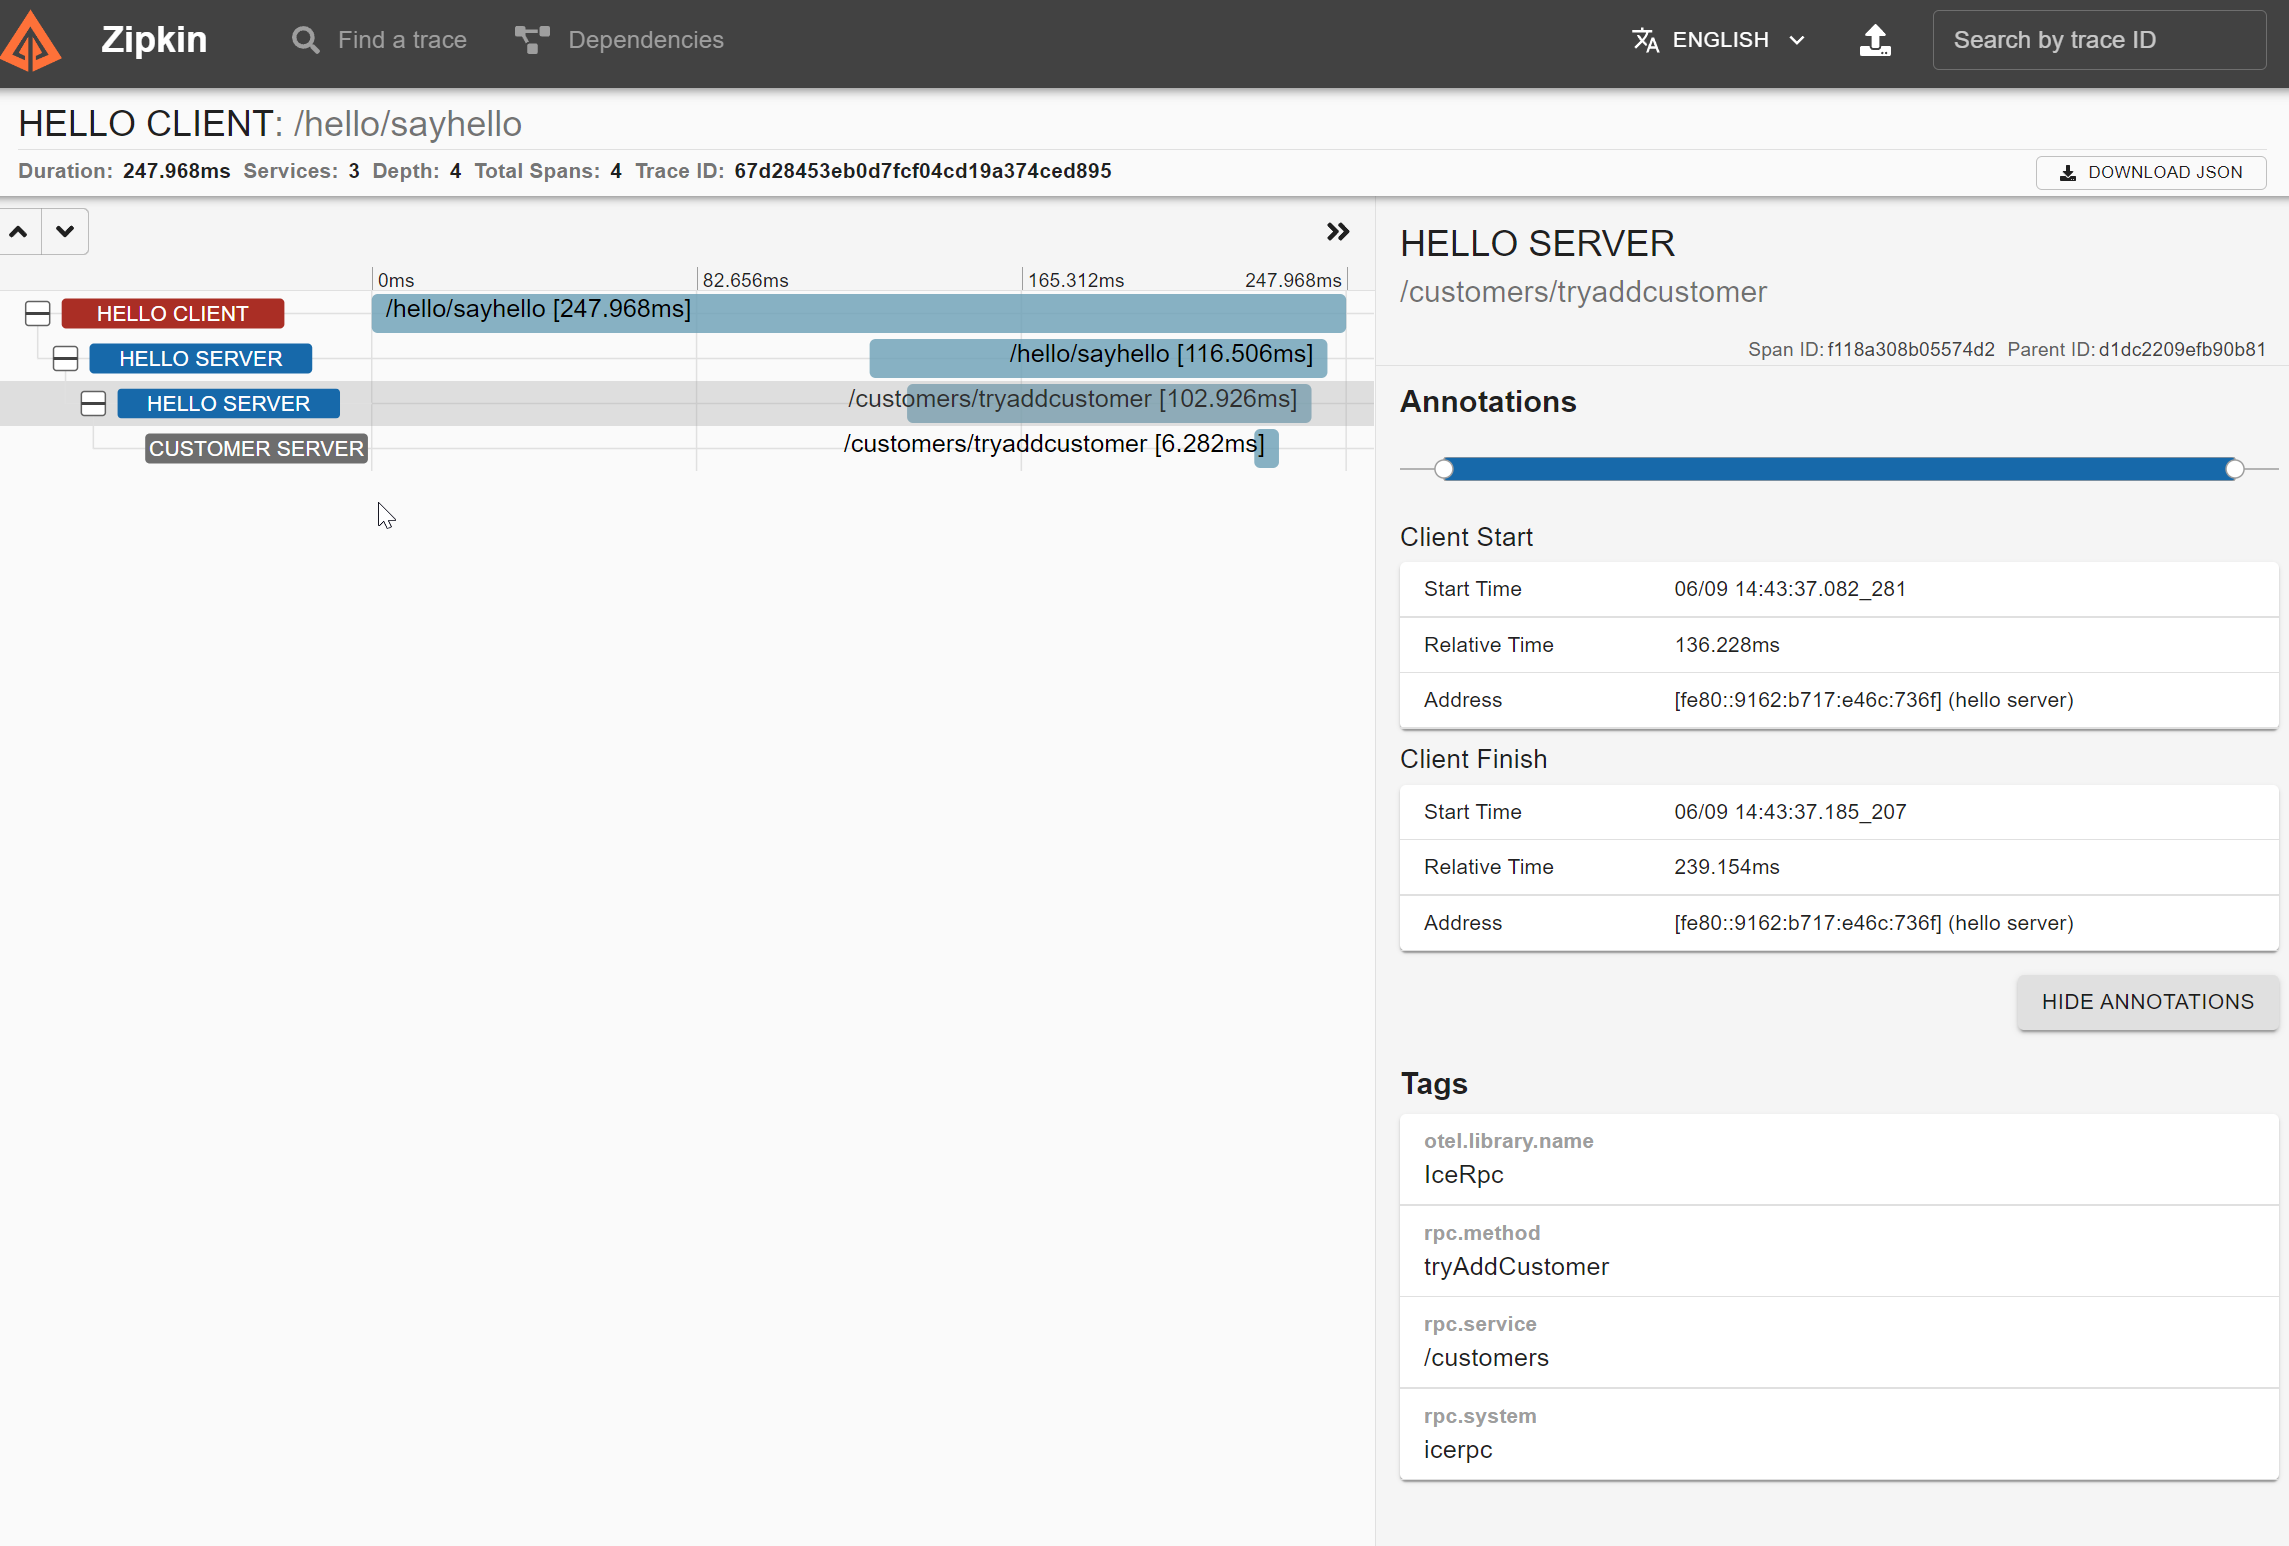
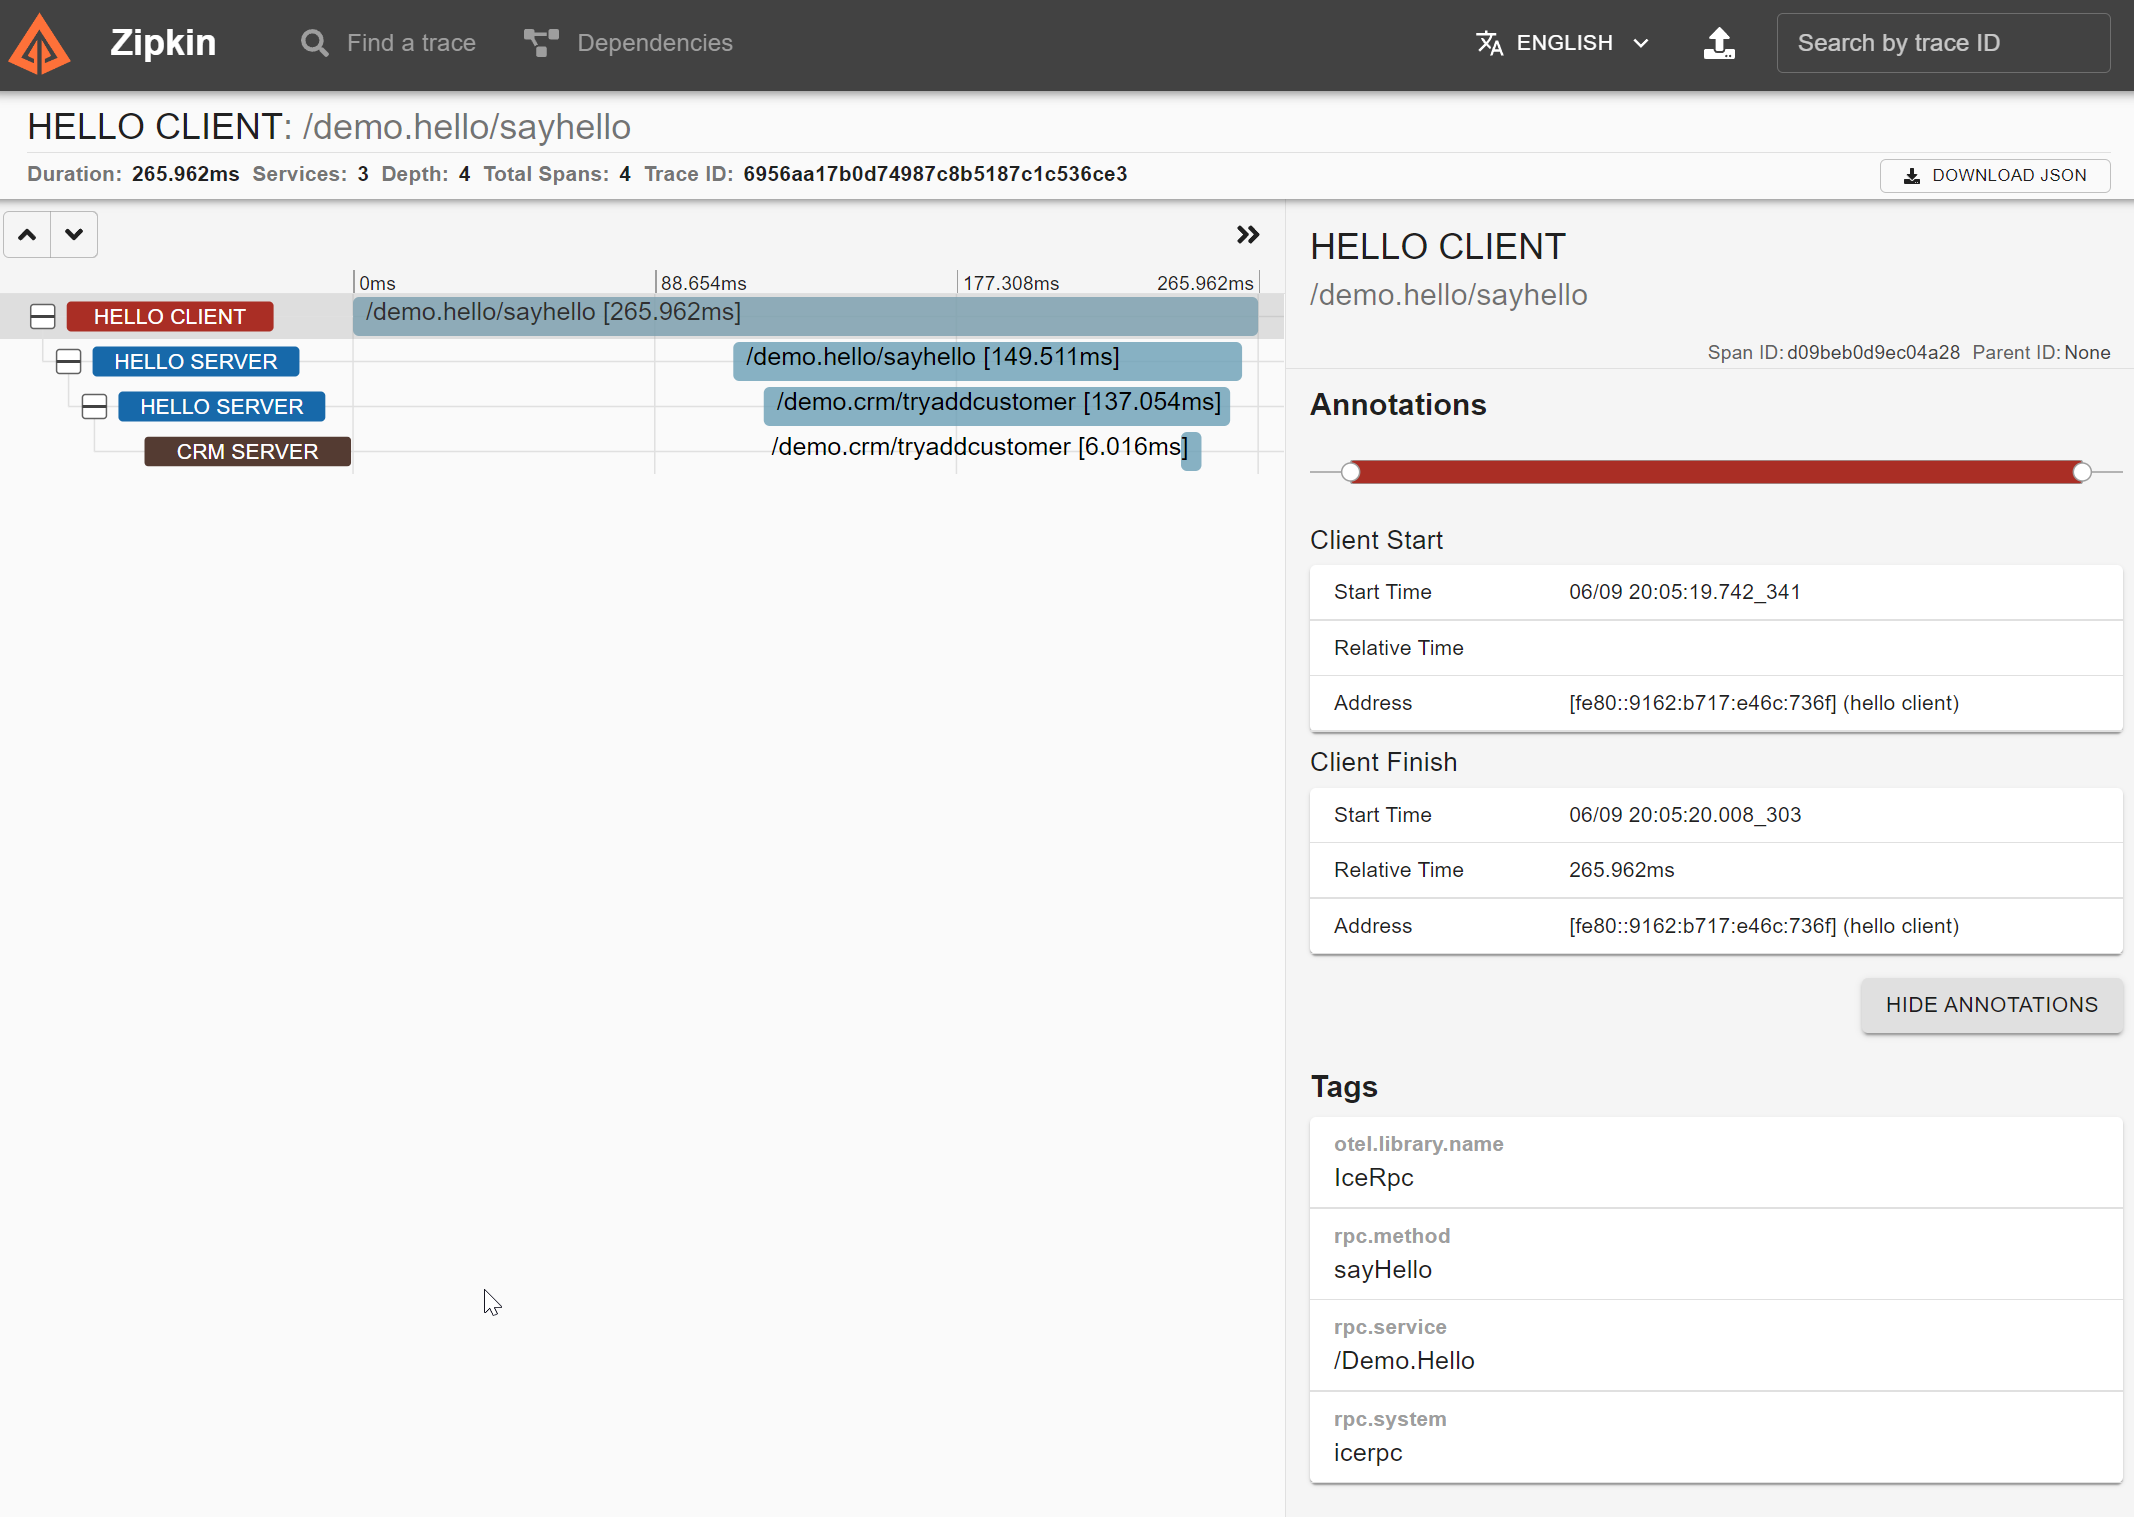
Fix review comments

Changed region(s): [[0.0, 0.0, 1.0, 0.6816], [0.6186, 0.6816, 0.7113, 0.9914], [0.7732, 0.2169, 0.9897, 0.2479]]

diff --git a/examples/OpenTelemetry/HelloServer/Program.cs b/examples/OpenTelemetry/HelloServer/Program.cs
@@ -7,12 +7,13 @@ using OpenTelemetry.Resources;
 using OpenTelemetry.Trace;
 using System.Diagnostics;
 
+// The activity source used by the telemetry interceptor and middleware.
 using var activitySource = new ActivitySource("IceRpc");
 
-// Create an invocation pipeline that uses the telemetry interceptor.
+// Create an invocation pipeline and add the telemetry interceptor to it.
 var pipeline = new Pipeline().UseTelemetry(activitySource);
 
-// Create an dispatch pipeline that uses the telemetry middleware.
+// Create a dispatch pipeline and add the telemetry middleware to it.
 var router = new Router().UseTelemetry(activitySource);
 
 // Configure OpenTelemetry trace provider to subscribe to the activity source used by the IceRpc telemetry interceptor
@@ -24,13 +25,12 @@ using var tracerProvider = Sdk.CreateTracerProviderBuilder()
    .Build();
 
 await using var connection = new ClientConnection("icerpc://127.0.0.1:20001");
-ICustomerListPrx customerList = CustomerListPrx.FromConnection(connection, "/customers", pipeline);
 
-router.Map("/hello", new Hello(customerList));
+router.Map<IHello>(new Hello(CRMPrx.FromConnection(connection, invoker: pipeline)));
 
 await using var server = new Server(router);
 
-// Destroy the server on Ctrl+C or Ctrl+Break
+// Shuts down the server on Ctrl+C or Ctrl+Break
 Console.CancelKeyPress += (sender, eventArgs) =>
 {
     eventArgs.Cancel = true;

diff --git a/examples/OpenTelemetry/CRMServer/Program.cs b/examples/OpenTelemetry/CRMServer/Program.cs
@@ -7,20 +7,21 @@ using OpenTelemetry.Resources;
 using OpenTelemetry.Trace;
 using System.Diagnostics;
 
+// The activity source used by the telemetry middleware.
 using var activitySource = new ActivitySource("IceRpc");
 
-// Create an dispatch pipeline that uses the telemetry middleware.
+// Create a dispatch pipeline and add the telemetry middleware to it.
 var router = new Router().UseTelemetry(activitySource);
 
 // Configure OpenTelemetry trace provider to subscribe to the activity source used by the IceRpc telemetry interceptor
 // and middleware, and to export the traces to the Zipkin service.
 using var tracerProvider = Sdk.CreateTracerProviderBuilder()
    .AddSource(activitySource.Name)
-   .SetResourceBuilder(ResourceBuilder.CreateDefault().AddService("Customer Server"))
+   .SetResourceBuilder(ResourceBuilder.CreateDefault().AddService("CRM Server"))
    .AddZipkinExporter()
    .Build();
 
-router.Map("/customers", new CustomerList());
+router.Map<ICRM>(new CRM());
 
 await using var server = new Server(
     new ServerOptions
@@ -32,7 +33,7 @@ await using var server = new Server(
         }
     });
 
-// Destroy the server on Ctrl+C or Ctrl+Break
+// Shuts down the server on Ctrl+C or Ctrl+Break
 Console.CancelKeyPress += (sender, eventArgs) =>
 {
     eventArgs.Cancel = true;

diff --git a/examples/OpenTelemetry/Client/Program.cs b/examples/OpenTelemetry/Client/Program.cs
@@ -7,8 +7,10 @@ using OpenTelemetry.Resources;
 using OpenTelemetry.Trace;
 using System.Diagnostics;
 
-// Create an invocation pipeline that uses the telemetry interceptor.
+// The activity source used by the telemetry interceptor.
 using var activitySource = new ActivitySource("IceRpc");
+
+// Create an invocation pipeline and add the telemetry interceptor to it.
 var pipeline = new Pipeline().UseTelemetry(activitySource);
 
 // Configure OpenTelemetry trace provider to subscribe to the activity source used by the IceRpc telemetry interceptor,
@@ -21,7 +23,7 @@ using var tracerProvider = Sdk.CreateTracerProviderBuilder()
 
 await using var connection = new ClientConnection("icerpc://127.0.0.1");
 
-IHelloPrx hello = HelloPrx.FromConnection(connection, "/hello", pipeline);
+IHelloPrx hello = HelloPrx.FromConnection(connection, invoker: pipeline);
 
 Console.Write("To say hello to the server, type your name: ");
 

diff --git a/examples/OpenTelemetry/HelloServer/Hello.cs b/examples/OpenTelemetry/HelloServer/Hello.cs
@@ -7,15 +7,14 @@ namespace Demo;
 
 public class Hello : Service, IHello
 {
+    private readonly ICRMPrx _crm;
 
-    ICustomerListPrx _customerList;
-
-    public Hello(ICustomerListPrx customerList) => _customerList = customerList;
+    public Hello(ICRMPrx crm) => _crm = crm;
 
     public async ValueTask<string> SayHelloAsync(string name, IFeatureCollection features, CancellationToken cancel)
     {
         Console.WriteLine($"{name} says hello!");
-        if (await _customerList.TryAddCustomerAsync(name, features, cancel))
+        if (await _crm.TryAddCustomerAsync(name, features, cancel))
         {
             return $"Hello, {name}!";
         }

diff --git a/examples/OpenTelemetry/CRMServer/CRM.cs b/examples/OpenTelemetry/CRMServer/CRM.cs
@@ -5,17 +5,17 @@ using IceRpc.Slice;
 
 namespace Demo;
 
-public class CustomerList : Service, ICustomerList
+public class CRM : Service, ICRM
 {
-    private readonly List<string> _customerList = new();
+    private readonly List<string> _customers = new();
 
     public ValueTask<bool> TryAddCustomerAsync(string name, IFeatureCollection features, CancellationToken cancel)
     {
-        if (_customerList.Contains(name))
+        if (_customers.Contains(name))
         {
             return new(false);
         }
-        _customerList.Add(name);
+        _customers.Add(name);
         return new(true);
     }
 }

diff --git a/examples/OpenTelemetry/README.md b/examples/OpenTelemetry/README.md
@@ -1,7 +1,7 @@
 This application illustrates how to use the IceRpc telemetry interceptor and middleware, and how they can be integrated
 with OpenTelemetry to export traces to Zipkin. The application also shows how the trace context is propagated from the
-client to the front end Hello server, and from the front end Hello server to the backend Customer server, by just
-configuring the IceRpc telemetry interceptor and middleware.
+client to the front end Hello server, and from the front end Hello server to the backend CRM server, by just configuring
+the IceRpc telemetry interceptor and middleware.
 
 For build instructions check the top-level [README.md](../../README.md).
 
@@ -9,9 +9,9 @@ Firt start the Zipkin service as documented in the Zipkin quick start guide:
 
 - https://zipkin.io/pages/quickstart.html
 
-In a separate window start the Customer Server program:
+In a separate window start the CRM Server program:
 ```
-dotnet run --project CustomerServer/CustomerServer.csproj
+dotnet run --project CRMServer/CRMServer.csproj
 ```
 
 In a separate window start the Hello Server program:
